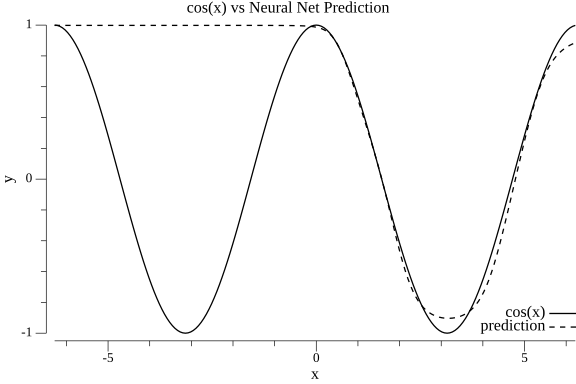
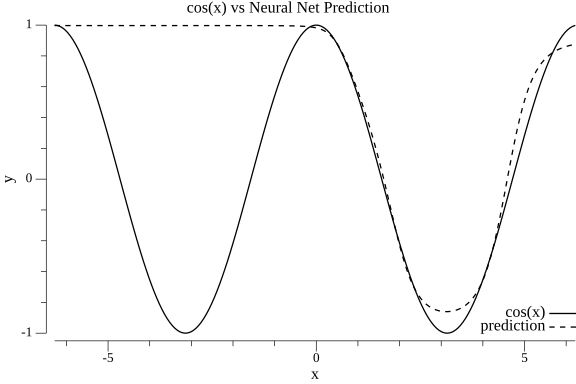
feat: remove output alway 1 dimension limitation

diff --git a/nn/nn.go b/nn/nn.go
@@ -14,6 +14,75 @@ type Network struct {
 	Optimizer Optimizer
 }
 
+func (nn *Network) outputSize() int {
+	last := len(nn.Layers) - 1
+	return nn.Layers[last].Weights.Row
+}
+
+// backprop runs forward + backward pass for a single training row and
+// accumulates the weight/bias gradients into dW/db. It returns the
+// per-output loss for that row so the caller can track epoch loss.
+func (nn *Network) backprop(row []float64, dW, db []Mat) Mat {
+	delta := make([]Mat, len(nn.Layers))
+	raw_x := row[:len(row)-1]
+	raw_y := row[len(row)-1:]
+	last := len(nn.Layers) - 1
+	x := NewRowMat(raw_x).Transpose()
+	y := NewRowMat(raw_y).Transpose()
+
+	a := make([]Mat, len(nn.Layers)+1)
+	z := make([]Mat, len(nn.Layers)) // pre-activation values, one per layer
+	a[0] = x
+	for l, layer := range nn.Layers {
+		z[l] = layer.Weights.Multiply(a[l]).Add(layer.Biases)
+		a[l+1] = z[l].Apply(layer.Activation.Forward)
+	}
+	pred := a[len(a)-1]
+
+	lost := pred.Apply(func(f float64) float64 {
+		return nn.Loss.Loss(y.Weights[0][0], f)
+	})
+
+	dLoss := pred.Apply(func(f float64) float64 {
+		return nn.Loss.Derivative(y.Weights[0][0], f)
+	})
+
+	// delta[last] = dLoss/dPred ⊙ activation'[last](z[last])
+	delta[last] = dLoss.Hadamard(
+		z[last].Apply(nn.Layers[last].Activation.Derivative),
+	)
+
+	for j := last; j >= 0; j-- {
+		dW[j] = dW[j].Add(delta[j].Multiply(a[j].Transpose()))
+		db[j] = db[j].Add(delta[j])
+		if j > 0 {
+			delta[j-1] = nn.Layers[j].Weights.Transpose().Multiply(delta[j])
+			delta[j-1] = delta[j-1].Hadamard(
+				z[j-1].Apply(nn.Layers[j-1].Activation.Derivative),
+			)
+		}
+	}
+
+	return lost
+}
+
+// learn applies accumulated gradients dW/db (summed over n samples) to the
+// network's weights and biases.
+func (nn *Network) learn(dW, db []Mat, n float64) {
+	for j := range nn.Layers {
+		for r := range nn.Layers[j].Weights.Weights {
+			for col := range nn.Layers[j].Weights.Weights[r] {
+				nn.Layers[j].Weights.Weights[r][col] -= 0.5 * dW[j].Weights[r][col] / n
+			}
+		}
+		for r := range nn.Layers[j].Biases.Weights {
+			for col := range nn.Layers[j].Biases.Weights[r] {
+				nn.Layers[j].Biases.Weights[r][col] -= 0.5 * db[j].Weights[r][col] / n
+			}
+		}
+	}
+}
+
 func (nn *Network) Train(epoch int, train_set Mat) {
 	for range epoch {
 		dW := make([]Mat, len(nn.Layers))
@@ -22,72 +91,25 @@ func (nn *Network) Train(epoch int, train_set Mat) {
 			dW[l] = NewZeroMat(nn.Layers[l].Weights.Row, nn.Layers[l].Weights.Column)
 			db[l] = NewZeroMat(nn.Layers[l].Biases.Row, nn.Layers[l].Biases.Column)
 		}
-		c := NewRowMat([]float64{0})
+		c := NewZeroMat(nn.outputSize(), 1)
 
 		for index := range train_set.Row {
-			delta := make([]Mat, len(nn.Layers))
-			row := train_set.Weights[index]
-			raw_x := row[:len(row)-1]
-			raw_y := row[len(row)-1:]
-			last := len(nn.Layers) - 1
-			x := NewRowMat(raw_x).Transpose()
-			y := NewRowMat(raw_y).Transpose()
-
-			a := make([]Mat, len(nn.Layers)+1)
-			z := make([]Mat, len(nn.Layers)) // pre-activation values, one per layer
-			a[0] = x
-			for l, layer := range nn.Layers {
-				z[l] = layer.Weights.Multiply(a[l]).Add(layer.Biases)
-				a[l+1] = z[l].Apply(layer.Activation.Forward)
-			}
-			pred := a[len(a)-1]
-
-			lost := pred.Apply(func(f float64) float64 {
-				return nn.Loss.Loss(y.Weights[0][0], f)
-			})
+			lost := nn.backprop(train_set.Weights[index], dW, db)
 			c = c.Add(lost)
-
-			dLoss := pred.Apply(func(f float64) float64 {
-				return nn.Loss.Derivative(y.Weights[0][0], f)
-			})
-
-			// delta[last] = dLoss/dPred ⊙ activation'[last](z[last])
-			delta[last] = dLoss.Hadamard(
-				z[last].Apply(nn.Layers[last].Activation.Derivative),
-			)
-
-			for j := last; j >= 0; j-- {
-				dW[j] = dW[j].Add(delta[j].Multiply(a[j].Transpose()))
-				db[j] = db[j].Add(delta[j])
-				if j > 0 {
-					delta[j-1] = nn.Layers[j].Weights.Transpose().Multiply(delta[j])
-					delta[j-1] = delta[j-1].Hadamard(
-						z[j-1].Apply(nn.Layers[j-1].Activation.Derivative),
-					)
-				}
-			}
 		}
 
 		n := float64(train_set.Row)
 		c = c.Apply(func(f float64) float64 { return f / n })
 
-		for j := range nn.Layers {
-			for r := range nn.Layers[j].Weights.Weights {
-				for col := range nn.Layers[j].Weights.Weights[r] {
-					nn.Layers[j].Weights.Weights[r][col] -= 0.5 * dW[j].Weights[r][col] / n
-				}
-			}
-			for r := range nn.Layers[j].Biases.Weights {
-				for col := range nn.Layers[j].Biases.Weights[r] {
-					nn.Layers[j].Biases.Weights[r][col] -= 0.5 * db[j].Weights[r][col] / n
-				}
-			}
-		}
+		nn.learn(dW, db, n)
 
 	}
 }
 
-func (nn *Network) Infer(input Mat) float64 {
+// Infer runs a forward pass and returns the network's raw output values,
+// one per output neuron. For single-output networks this is a length-1
+// slice; callers that only ever had one output can do result[0].
+func (nn *Network) Infer(input Mat) []float64 {
 
 	a := input.Transpose()
 	for _, layer := range nn.Layers {
@@ -95,7 +117,10 @@ func (nn *Network) Infer(input Mat) float64 {
 		a = layer.Weights.Multiply(a).Add(layer.Biases).Apply(layer.Activation.Forward)
 	}
 
-	pred := a.Weights[0][0]
+	out := make([]float64, len(a.Weights))
+	for r := range a.Weights {
+		out[r] = a.Weights[r][0]
+	}
 
-	return pred
+	return out
 }

diff --git a/nn/mat.go b/nn/mat.go
@@ -139,6 +139,16 @@ func (mat Mat) Hadamard(other Mat) Mat {
 	}
 }
 
+func (m Mat) Combine(o Mat, f func(a, b float64) float64) Mat {
+	out := NewZeroMat(m.Row, m.Column)
+	for r := range m.Weights {
+		for c := range m.Weights[r] {
+			out.Weights[r][c] = f(m.Weights[r][c], o.Weights[r][c])
+		}
+	}
+	return out
+}
+
 func (mat Mat) String() string {
 	var sb strings.Builder
 	for i := range mat.Weights {

diff --git a/cmd/cosine/main.go b/cmd/cosine/main.go
@@ -60,7 +60,7 @@ func main() {
 		actual[i].Y = math.Cos(x)
 
 		predicted[i].X = x
-		predicted[i].Y = xor.Infer(nn.NewRowMat([]float64{x}))
+		predicted[i].Y = xor.Infer(nn.NewRowMat([]float64{x}))[0]
 	}
 
 	actualLine, _ := plotter.NewLine(actual)
@@ -73,7 +73,7 @@ func main() {
 	p.Legend.Add("cos(x)", actualLine)
 	p.Legend.Add("prediction", predLine)
 
-	p.Save(6*vg.Inch, 4*vg.Inch, "cos_vs_pred.png")
+	p.Save(6*vg.Inch, 4*vg.Inch, "./cmd/cosine/cos_vs_pred.png")
 }
 
 func cosine() {